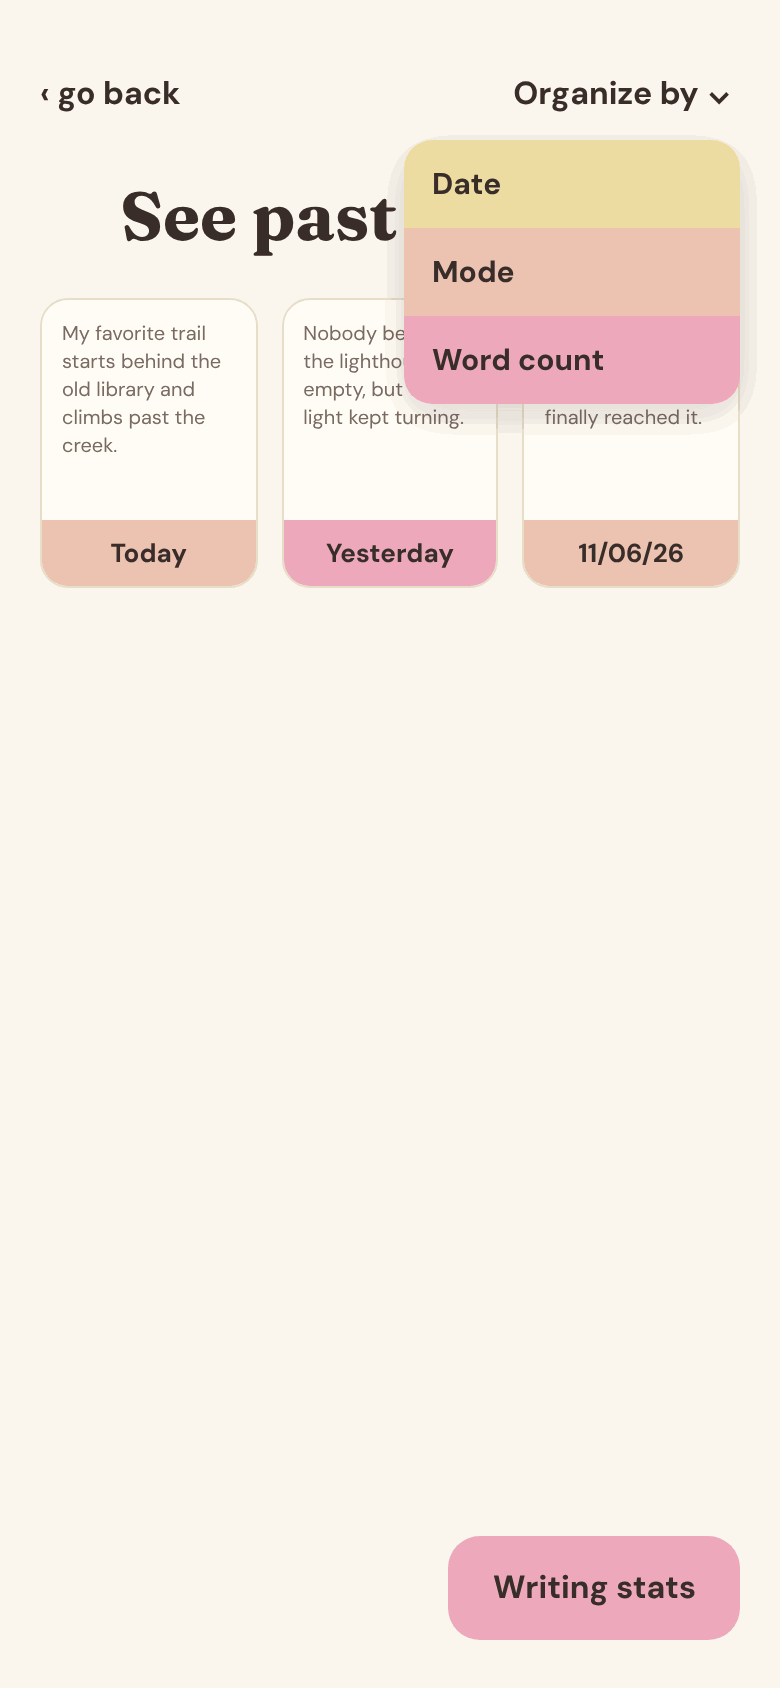
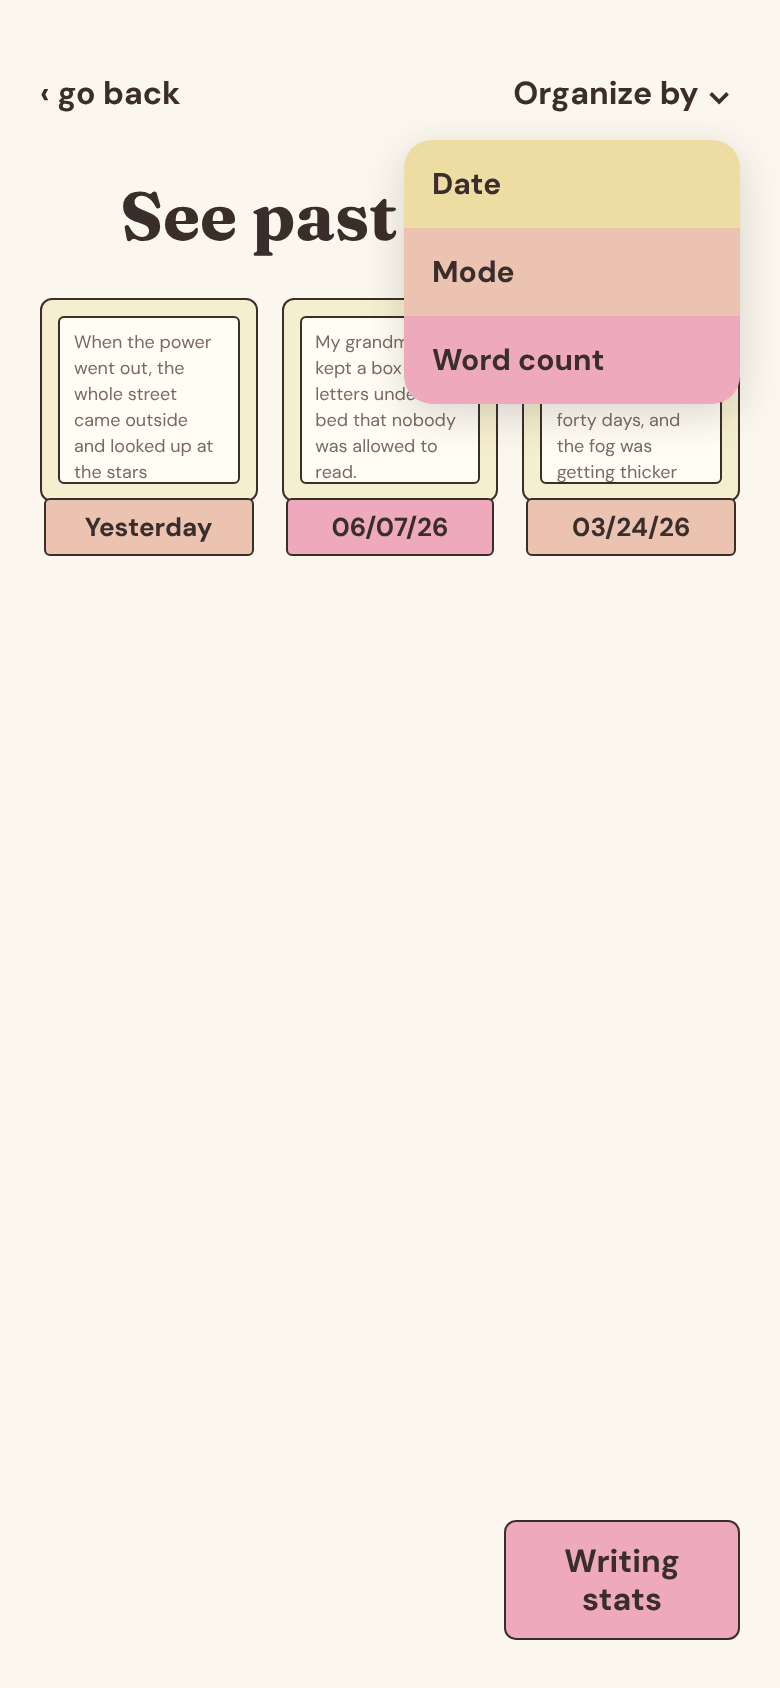
Make See past entries look like Allison's drawing

Changed region(s): [[0.0308, 0.154, 0.9538, 0.3697], [0.5538, 0.8934, 0.9538, 0.9858], [0.9231, 0.955, 0.9538, 0.9858]]

diff --git a/app/styles.css b/app/styles.css
@@ -197,11 +197,14 @@ a.tile { text-decoration: none; }
 .menu { position: absolute; right: 0; top: 46px; width: 168px; border-radius: 14px; overflow: hidden; box-shadow: 0 6px 20px rgba(58, 46, 42, 0.18); z-index: 5; display: flex; flex-direction: column; }
 .menu button { min-height: 44px; border: none; text-align: left; padding: 0 14px; font-size: 15px; font-weight: 600; }
 .entry-grid { display: grid; grid-template-columns: repeat(3, minmax(0, 1fr)); gap: 12px; }
-.entry-card { display: flex; flex-direction: column; border-radius: 14px; overflow: hidden; background: #fffdf6; border: 1.5px solid #e8dfc8; text-decoration: none; }
-.entry-card .preview { height: 110px; padding: 10px; font-size: 10px; line-height: 1.4; color: var(--muted); overflow: hidden; }
-.entry-card .date { padding: 8px 4px; font-size: 13px; font-weight: 700; text-align: center; }
+/* Like Allison's drawing: a lined page inside a pale yellow box, with the date on a colored tag underneath */
+.entry-card { display: flex; flex-direction: column; text-decoration: none; }
+.entry-card .page-box { background: #f6efcf; border: 1.5px solid var(--ink); border-radius: 6px; padding: 8px; }
+.entry-card .preview { display: block; height: 84px; padding: 6px 7px; background: #fffdf4; border: 1.5px solid var(--ink); border-radius: 3px; font-size: 9px; line-height: 1.45; color: var(--muted); overflow: hidden; }
+.entry-card .date { margin: -2px 2px 0; padding: 5px 2px; border: 1.5px solid var(--ink); border-radius: 3px; font-size: 13px; font-weight: 700; text-align: center; }
 .entry-card:nth-child(odd) .date { background: var(--orange); }
 .entry-card:nth-child(even) .date { background: var(--pink); }
+.stats-btn { width: 118px; min-height: 0; padding: 10px 8px; border: 1.5px solid var(--ink); border-radius: 6px; line-height: 1.2; text-align: center; }
 
 /* ---------- One entry ---------- */
 .fav[aria-pressed="true"] { color: var(--pink-deep); }

diff --git a/app/app.js b/app/app.js
@@ -540,8 +540,8 @@
     if (sortBy === 'words') list.sort((a, b) => b.e.wordCount - a.e.wordCount);
     $$('#sort-menu button').forEach((b) => b.setAttribute('aria-checked', String(b.dataset.sort === sortBy)));
     $('#entry-grid').innerHTML = list.map(({ e }) =>
-      '<div class="entry-card"><span class="preview">' + escapeHtml(e.text.slice(0, 160)) +
-      '</span><span class="date">' + escapeHtml(dateLabel(e.date)) + '</span></div>').join('');
+      '<div class="entry-card"><span class="page-box"><span class="preview">' + escapeHtml(e.text.slice(0, 160)) +
+      '</span></span><span class="date">' + escapeHtml(dateLabel(e.date)) + '</span></div>').join('');
   }
   $('#sort-btn').addEventListener('click', () => {
     const m = $('#sort-menu'); m.hidden = !m.hidden;

diff --git a/app/index.html b/app/index.html
@@ -265,7 +265,7 @@
     </div>
     <h1 class="title center" id="entries-title">See past Entries</h1>
     <div class="entry-grid" id="entry-grid"></div>
-    <a href="#stats" class="btn bg-pink push-down self-end">Writing stats</a>
+    <a href="#stats" class="btn bg-pink stats-btn push-down self-end">Writing<br>stats</a>
   </section>
 
   <!-- ===================== WRITING STATS ===================== -->

diff --git a/app/sw.js b/app/sw.js
@@ -1,6 +1,6 @@
 // Lets the app open even without internet, after the first visit.
 // When you change any app file, bump the version number so phones get the update.
-const CACHE = 'wpa-v23';
+const CACHE = 'wpa-v24';
 const FILES = ['./', 'index.html', 'styles.css', 'data.js', 'app.js', 'cloud.js', 'manifest.webmanifest',
   'icons/icon-192.png', 'icons/icon-512.png', 'icons/apple-touch-icon.png'];
 
